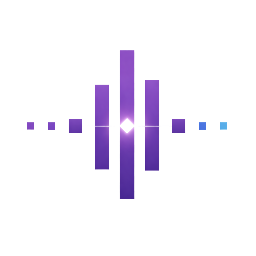
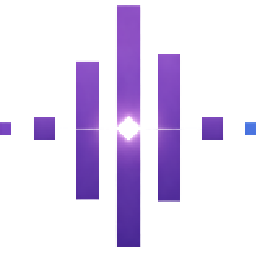
Migrate legacy LAN server URL and update default
Add migrate_legacy_server_url to map the old LAN URL to the new default and use it when reading/writing session and trusted-device files. Update kDefaultServerUrl to https://api.raythm.net and introduce kLegacyLanServerUrl for the previous LAN address. Ensure load_saved_session returns a migrated server_url and rewrites the session file if migration changed the stored URL. Also includes an updated icon file.

diff --git a/src/network/auth_client.cpp b/src/network/auth_client.cpp
@@ -230,6 +230,14 @@ std::string parse_error_message(const std::string& body, std::string fallback) {
     return message.value_or(std::move(fallback));
 }
 
+std::string migrate_legacy_server_url(const std::string& server_url) {
+    const std::string normalized = auth::normalize_server_url(server_url);
+    if (normalized == auth::normalize_server_url(auth::kLegacyLanServerUrl)) {
+        return auth::normalize_server_url(auth::kDefaultServerUrl);
+    }
+    return normalized;
+}
+
 bool write_session_file(const auth::session& session_data) {
     app_paths::ensure_directories();
     std::ofstream output(app_paths::auth_session_path(), std::ios::binary | std::ios::trunc);
@@ -238,7 +246,7 @@ bool write_session_file(const auth::session& session_data) {
     }
 
     output << "{\n";
-    output << "  \"serverUrl\": \"" << json::escape_string(session_data.server_url) << "\",\n";
+    output << "  \"serverUrl\": \"" << json::escape_string(migrate_legacy_server_url(session_data.server_url)) << "\",\n";
     output << "  \"accessToken\": \"" << json::escape_string(session_data.access_token) << "\",\n";
     output << "  \"refreshToken\": \"" << json::escape_string(session_data.refresh_token) << "\",\n";
     output << "  \"user\": {\n";
@@ -264,7 +272,7 @@ std::optional<std::string> read_trusted_device_token(const std::string& server_u
         return std::nullopt;
     }
 
-    if (auth::normalize_server_url(*stored_server_url) != auth::normalize_server_url(server_url) ||
+    if (migrate_legacy_server_url(*stored_server_url) != migrate_legacy_server_url(server_url) ||
         json::trim(*stored_email) != json::trim(email)) {
         return std::nullopt;
     }
@@ -284,7 +292,7 @@ bool write_trusted_device_token(const std::string& server_url, const std::string
     }
 
     output << "{\n";
-    output << "  \"serverUrl\": \"" << json::escape_string(auth::normalize_server_url(server_url)) << "\",\n";
+    output << "  \"serverUrl\": \"" << json::escape_string(migrate_legacy_server_url(server_url)) << "\",\n";
     output << "  \"email\": \"" << json::escape_string(json::trim(email)) << "\",\n";
     output << "  \"trustedDeviceToken\": \"" << json::escape_string(token) << "\"\n";
     output << "}\n";
@@ -584,12 +592,16 @@ std::optional<session> load_saved_session() {
         return std::nullopt;
     }
 
-    return session{
-        .server_url = normalize_server_url(*server_url),
+    session loaded{
+        .server_url = migrate_legacy_server_url(*server_url),
         .access_token = *access_token,
         .refresh_token = *refresh_token,
         .user = *user,
     };
+    if (loaded.server_url != normalize_server_url(*server_url)) {
+        write_session_file(loaded);
+    }
+    return loaded;
 }
 
 session_summary load_session_summary() {

diff --git a/src/network/auth_client.h b/src/network/auth_client.h
@@ -6,7 +6,8 @@
 
 namespace auth {
 
-inline constexpr const char* kDefaultServerUrl = "http://192.168.11.33";
+inline constexpr const char* kDefaultServerUrl = "https://api.raythm.net";
+inline constexpr const char* kLegacyLanServerUrl = "http://192.168.11.33";
 
 struct public_user {
     std::string id;
